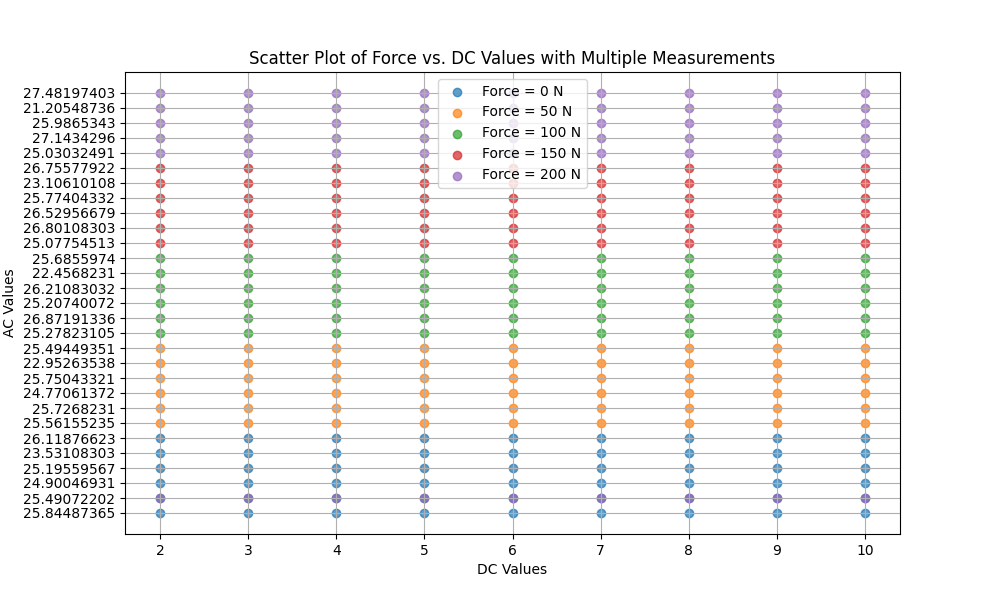
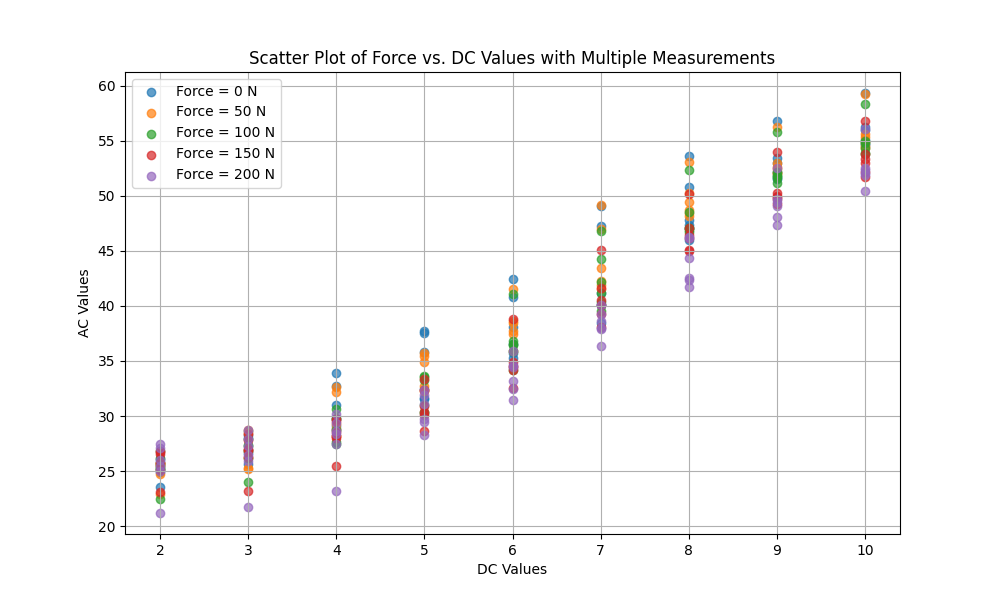
it does the thing

Changed region(s): [[0.0, 0.12, 0.899, 0.9]]

diff --git a/ProcessData.py b/ProcessData.py
@@ -42,67 +42,67 @@ dc_10a = []
 for x in range(0,5):
     if x == 0:
         for line in data_0AC:
-            dc_2a.append(line[0])
-            dc_3a.append(line[0])
-            dc_4a.append(line[0])
-            dc_5a.append(line[0])
-            dc_6a.append(line[0])
-            dc_7a.append(line[0])
-            dc_8a.append(line[0])
-            dc_9a.append(line[0])
-            dc_10a.append(line[0])
+            dc_2a.append(float(line[0]))
+            dc_3a.append(float(line[1]))
+            dc_4a.append(float(line[2]))
+            dc_5a.append(float(line[3]))
+            dc_6a.append(float(line[4]))
+            dc_7a.append(float(line[5]))
+            dc_8a.append(float(line[6]))
+            dc_9a.append(float(line[7]))
+            dc_10a.append(float(line[8]))
         data_zip_0AC = [dc_2a,dc_3a,dc_4a,dc_5a,dc_6a,dc_7a,dc_8a,dc_9a,dc_10a]
 
     if x == 1:
         for line in data_50AC:
-            dc_2a.append(line[0])
-            dc_3a.append(line[0])
-            dc_4a.append(line[0])
-            dc_5a.append(line[0])
-            dc_6a.append(line[0])
-            dc_7a.append(line[0])
-            dc_8a.append(line[0])
-            dc_9a.append(line[0])
-            dc_10a.append(line[0])
+            dc_2a.append(float(line[0]))
+            dc_3a.append(float(line[1]))
+            dc_4a.append(float(line[2]))
+            dc_5a.append(float(line[3]))
+            dc_6a.append(float(line[4]))
+            dc_7a.append(float(line[5]))
+            dc_8a.append(float(line[6]))
+            dc_9a.append(float(line[7]))
+            dc_10a.append(float(line[8]))
         data_zip_50AC = [dc_2a,dc_3a,dc_4a,dc_5a,dc_6a,dc_7a,dc_8a,dc_9a,dc_10a]
 
     if x == 2:
         for line in data_100AC:
-            dc_2a.append(line[0])
-            dc_3a.append(line[0])
-            dc_4a.append(line[0])
-            dc_5a.append(line[0])
-            dc_6a.append(line[0])
-            dc_7a.append(line[0])
-            dc_8a.append(line[0])
-            dc_9a.append(line[0])
-            dc_10a.append(line[0])
+            dc_2a.append(float(line[0]))
+            dc_3a.append(float(line[1]))
+            dc_4a.append(float(line[2]))
+            dc_5a.append(float(line[3]))
+            dc_6a.append(float(line[4]))
+            dc_7a.append(float(line[5]))
+            dc_8a.append(float(line[6]))
+            dc_9a.append(float(line[7]))
+            dc_10a.append(float(line[8]))
         data_zip_100AC = [dc_2a,dc_3a,dc_4a,dc_5a,dc_6a,dc_7a,dc_8a,dc_9a,dc_10a]
 
     if x == 3:
         for line in data_150AC:
-            dc_2a.append(line[0])
-            dc_3a.append(line[0])
-            dc_4a.append(line[0])
-            dc_5a.append(line[0])
-            dc_6a.append(line[0])
-            dc_7a.append(line[0])
-            dc_8a.append(line[0])
-            dc_9a.append(line[0])
-            dc_10a.append(line[0])
+            dc_2a.append(float(line[0]))
+            dc_3a.append(float(line[1]))
+            dc_4a.append(float(line[2]))
+            dc_5a.append(float(line[3]))
+            dc_6a.append(float(line[4]))
+            dc_7a.append(float(line[5]))
+            dc_8a.append(float(line[6]))
+            dc_9a.append(float(line[7]))
+            dc_10a.append(float(line[8]))
         data_zip_150AC = [dc_2a,dc_3a,dc_4a,dc_5a,dc_6a,dc_7a,dc_8a,dc_9a,dc_10a]
 
     if x == 4:
         for line in data_200AC:
-            dc_2a.append(line[0])
-            dc_3a.append(line[0])
-            dc_4a.append(line[0])
-            dc_5a.append(line[0])
-            dc_6a.append(line[0])
-            dc_7a.append(line[0])
-            dc_8a.append(line[0])
-            dc_9a.append(line[0])
-            dc_10a.append(line[0])
+            dc_2a.append(float(line[0]))
+            dc_3a.append(float(line[1]))
+            dc_4a.append(float(line[2]))
+            dc_5a.append(float(line[3]))
+            dc_6a.append(float(line[4]))
+            dc_7a.append(float(line[5]))
+            dc_8a.append(float(line[6]))
+            dc_9a.append(float(line[7]))
+            dc_10a.append(float(line[8]))
         data_zip_200AC = [dc_2a,dc_3a,dc_4a,dc_5a,dc_6a,dc_7a,dc_8a,dc_9a,dc_10a]
 
     x += 1
